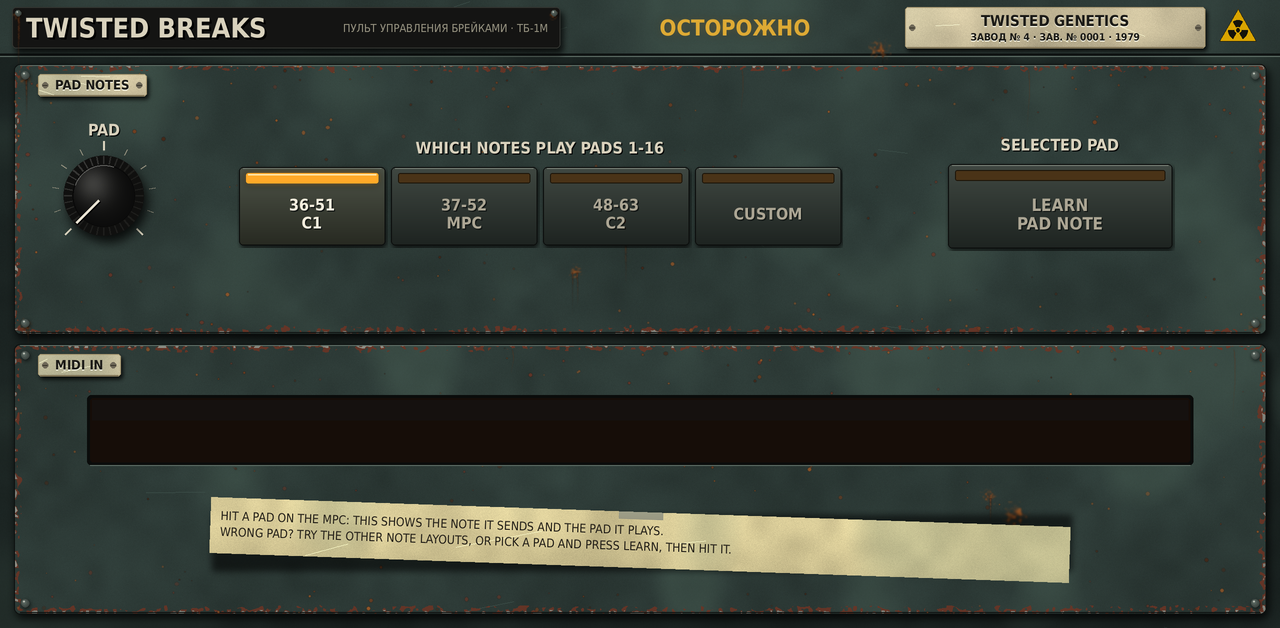
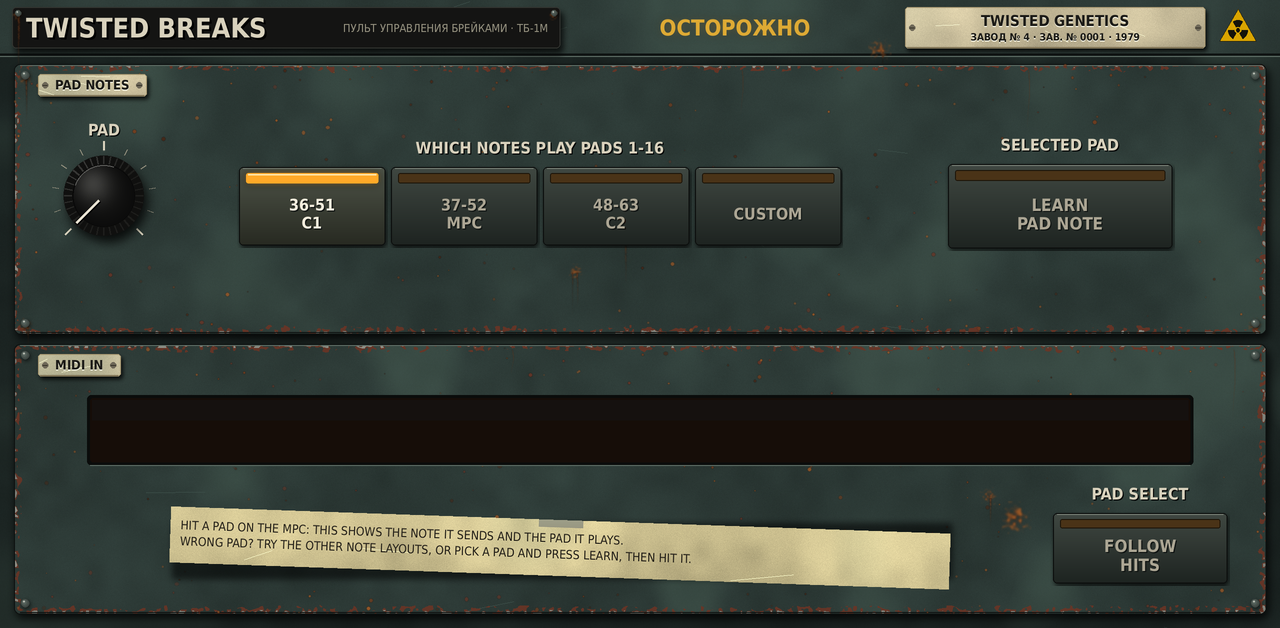
1.2: a hit selects its pad; the touched control gets an amber frame
- Hitting a pad (MIDI note-on from the MPC's pads) selects it, so every page shows the pad just played;
  FOLLOW HITS on SETUP turns it off; not while LEARN waits for a note, never from the sequencer
- vst/skin_post.py: the MPC's focus frame (the control the data wheel turns) is drawn in amber with a
  faint wash instead of the toolkit's invisible default
- sl_info is no longer polled (not on the skin since 1.1)

Claude-Session: https://claude.ai/code/session_016uiKHs1PyuvdGNn9rURMam

Changed region(s): [[0.125, 0.7564, 0.9688, 0.9379]]

diff --git a/src/MpcHost.cpp b/src/MpcHost.cpp
@@ -197,7 +197,7 @@ namespace
 
     enum class Own : uint8_t
     {
-        none, trigger, smpFile, smpSlice, smpAudition, stPos, noteBase, step, slPos, slZoom, wvTap, wave, tab
+        none, trigger, padFollow, smpFile, smpSlice, smpAudition, stPos, noteBase, step, slPos, slZoom, wvTap, wave, tab
     };
 
     struct Info
@@ -242,6 +242,7 @@ namespace
                 else if (std::strcmp (k, "sl_count") == 0)     in.kind = Kind::slCount;
                 else if (std::strcmp (k, "sl_pick") == 0)      in.kind = Kind::padParam;
                 else if (std::strcmp (k, "smp_file") == 0)     own (Own::smpFile);
+                else if (std::strcmp (k, "pad_follow") == 0)   own (Own::padFollow);
                 else if (std::strcmp (k, "smp_slice") == 0)    own (Own::smpSlice);
                 else if (std::strcmp (k, "smp_audition") == 0) own (Own::smpAudition);
                 else if (std::strcmp (k, "st_pos") == 0)       own (Own::stPos);
@@ -334,6 +335,17 @@ namespace
         {
             if (len <= 0 || len > 3) return;
             midi.addEvent (msg, len, 0);
+            // A pad hit selects that pad, so every page shows the pad just played (not while LEARN waits for a note).
+            if (len == 3 && (msg[0] & 0xf0) == 0x90 && msg[2] > 0 && padFollow.load (std::memory_order_relaxed))
+            {
+                auto& engine = proc->getEngine();
+                if (engine.getNoteLearnPad() < 0)
+                    if (const int pad = engine.padForNote (msg[1]); pad >= 0)
+                    {
+                        selectedPad.store (pad);
+                        proc->getBridge().selectedPad.store (pad);
+                    }
+            }
         }
 
         void songPos (double ppq, double tempo, int isPlaying, int)
@@ -1229,6 +1241,7 @@ namespace
             switch (in.own)
             {
                 case Own::smpFile:     return (float) cursor.load();
+                case Own::padFollow:   return padFollow.load() ? 1.0f : 0.0f;
                 case Own::smpSlice:    return smpSliceOnLoad.load() ? 1.0f : 0.0f;
                 case Own::smpAudition: return smpAudition.load() ? 1.0f : 0.0f;
                 case Own::stPos:       return (float) (proc->getBridge().seqStep.load() + 1);
@@ -1253,6 +1266,7 @@ namespace
             switch (in.own)
             {
                 case Own::smpFile:     moveCursor (juce::roundToInt (v), false); return;
+                case Own::padFollow:   padFollow.store (v > 0.5f); return;
                 case Own::smpSlice:    smpSliceOnLoad.store (v > 0.5f); return;
                 case Own::smpAudition: smpAudition.store (v > 0.5f); if (v < 0.5f) stopPreview(); return;
                 case Own::stPos:       return;
@@ -1722,7 +1736,7 @@ namespace
         int    framesSincePos = 0;
 
         std::atomic<int> selectedPad { 0 }, fxGroup { 0 }, kitIndex { 0 };
-        std::atomic<bool> rescanQueued { false };
+        std::atomic<bool> rescanQueued { false }, padFollow { true };
         int lastPad = 0, lastGroup = 0;
 
         std::array<std::atomic<int>, NPARAMS>  triggerHold {};

diff --git a/vst/skin_post.py b/vst/skin_post.py
@@ -1,0 +1,43 @@
+#!/usr/bin/env python3
+"""Run by the toolkit after it builds the skin (vst.json "skin_post"): python3 skin_post.py <skin dir>.
+
+Touching a control on the MPC focuses it (the data wheel then turns that one). The toolkit draws that focus
+invisibly; here it becomes an amber frame with a faint amber wash, so you can see which control is being
+controlled. Fails when the skin has no focus parts to change (a toolkit change moved them)."""
+import json
+import os
+import sys
+
+OUTLINE = "ffffa928"      # ARGB: the skin's amber
+WASH = "26ffa928"         # ~15% amber over the control
+THICKNESS = 3.0
+
+skin = sys.argv[1]
+tui = os.path.join(skin, "Plugin Skins", "TUI.json")
+data = json.load(open(tui))
+changed = 0
+
+
+def walk(o):
+    global changed
+    if isinstance(o, dict):
+        cd = o.get("componentData")
+        if isinstance(cd, dict) and cd.get("type") == "Focus":
+            d = cd["data"]
+            d["outlineColour"] = OUTLINE
+            d["backgroundColour"] = WASH
+            d["outlineThickness"] = THICKNESS
+            d["backgroundInset"] = 2.0
+            changed += 1
+        for v in o.values():
+            walk(v)
+    elif isinstance(o, list):
+        for v in o:
+            walk(v)
+
+
+walk(data)
+if changed == 0:
+    sys.exit("skin_post: no Focus parts found in %s" % tui)
+json.dump(data, open(tui, "w"), indent=1)
+print("skin_post: %d focus frames made visible (amber)" % changed)

diff --git a/skin/make_skin.py b/skin/make_skin.py
@@ -1018,15 +1018,16 @@ def tab_steps():
 
 
 def tab_setup():
-    t = Tab("SETUP", [("SETUP", ["pad", "note_base", "note_learn"])], 1010)
+    t = Tab("SETUP", [("SETUP", ["pad", "note_base", "note_learn", "pad_follow"])], 1010)
     t.panel(14, 64, 1252, 270, "PAD NOTES")
     t.knob("pad", 104, 196, 40, "PAD", value=False)
     t.keys("note_base", 540, 206, ["36-51\nC1", "37-52\nMPC", "48-63\nC2", "CUSTOM"], 150, 84, name="WHICH NOTES PLAY PADS 1-16")
     t.button("note_learn", 1060, 206, "LEARN\nPAD NOTE", w=230, h=90, name="SELECTED PAD")
     t.panel(14, 344, 1252, 270, "MIDI IN")
     t.readout("note_info", 640, 430, 1100, 64, tsize=30)
-    t.tag(640, 540, ["HIT A PAD ON THE MPC: THIS SHOWS THE NOTE IT SENDS AND THE PAD IT PLAYS.",
-                     "WRONG PAD? TRY THE OTHER NOTE LAYOUTS, OR PICK A PAD AND PRESS LEARN, THEN HIT IT."], 860, 56)
+    t.tag(560, 548, ["HIT A PAD ON THE MPC: THIS SHOWS THE NOTE IT SENDS AND THE PAD IT PLAYS.",
+                     "WRONG PAD? TRY THE OTHER NOTE LAYOUTS, OR PICK A PAD AND PRESS LEARN, THEN HIT IT."], 780, 56)
+    t.toggle("pad_follow", 1140, 548, "FOLLOW\nHITS", w=180, h=76, name="PAD SELECT")
     return t
 
 

diff --git a/tests/tbm_test.c b/tests/tbm_test.c
@@ -142,6 +142,17 @@ int main(void) {
     CHECK(fabsf(plain(a, "bank_active") - 2) < 0.05f, "BREAK BANK option 3 round-trips (%.2f)", plain(a, "bank_active"));
     set_plain(a, "bank_active", 0); run(a, 2);
 
+    /* 2a. hitting a pad selects it: every page follows the pad just played (unless FOLLOW HITS is off) */
+    set_plain(a, "pad", 1); run(a, 2);
+    note(a, 1, 38, 100); run(a, 20); note(a, 0, 38, 0); run(a, 20);
+    CHECK(lroundf(plain(a, "pad")) == 3, "note 38 (pad 3) selects pad 3 (%.0f)", plain(a, "pad"));
+    display(a, "pad", text);
+    CHECK(strncmp(text, "03", 2) == 0, "PAD readout follows ('%s')", text);
+    set_plain(a, "pad_follow", 0); run(a, 2);
+    note(a, 1, 36, 100); run(a, 20); note(a, 0, 36, 0); run(a, 20);
+    CHECK(lroundf(plain(a, "pad")) == 3, "FOLLOW HITS off: a hit leaves the selection (%.0f)", plain(a, "pad"));
+    set_plain(a, "pad_follow", 1); set_plain(a, "pad", 1); run(a, 2);
+
     /* 2b. the SLICE page on pad 1 (the factory jungle kit's break) */
     set_plain(a, "pad", 1); run(a, 2);
     set_plain(a, "sl_count", 1);                       /* 8 slices */

diff --git a/tools/make_params.py b/tools/make_params.py
@@ -131,7 +131,7 @@ section("Slice", [
     trig("sl_reset", "Reset Slices"),
     trig("sl_unslice", "Unslice"),
     trig("sl_spread", "Spread"),
-    readout("sl_info", "Slicer"),
+    dict(readout("sl_info", "Slicer"), poll=False),   # 1.1: no longer on the skin (the screen's lines replace it)
 ])
 
 # ---- 1.0: SAMPLES (your own breaks from the SD card) ------------------------------------------
@@ -200,6 +200,9 @@ section("Sound", [
     trig("kit_next", "Next Kit"),
     readout("kit_info", "Kit Info"),
 ])
+
+# ---- 1.2: hitting a pad selects it (every page then shows that pad) --------------------------------------
+section("Follow", [opts("pad_follow", "Pad Follows Hits", ONOFF, 1)])
 
 json.dump({"name": "Twisted Breaks", "params": params, "sections": sections}, open(OUT, "w"), indent=1)
 print("%s: %d parameters" % (os.path.relpath(OUT), len(params)))

diff --git a/README.md b/README.md
@@ -37,7 +37,7 @@ the Q-Links drive it.
 | FX | FX group A–D and its 16 performance effects |
 | MACROS | The 8 macros (Destroy, Amen Mangle, Rewind, Darken, Tape Stop, Pitch Dive, Jungle Roll, Sci-Fi), amount, group, latch |
 | MIXER | Group A–D levels and mutes |
-| SETUP | Which MIDI notes play pads 1–16 (36–51, 37–52, 48–63 or custom), LEARN a note for one pad, and a MIDI IN line showing the note you just hit and the pad it played |
+| SETUP | FOLLOW HITS (a hit selects its pad); which MIDI notes play pads 1–16 (36–51, 37–52, 48–63 or custom), LEARN a note for one pad, and a MIDI IN line showing the note you just hit and the pad it played |
 
 (The MPC shows five page tabs at a time; the `>` tab pages to the rest.)
 
@@ -51,6 +51,9 @@ the Q-Links drive it.
    the MPC appear as "MPC Kit 001", "MPC Kit 002"… and keep their samples with them.
 
 ### More
+- **The pad you hit is the pad you edit**: hitting a pad selects it, so PAD, SLICE, STEPS and SAMPLES all switch to
+  it (the sequencer playing doesn't move the selection). Turn it off with FOLLOW HITS on the SETUP page.
+- **Which control am I on?** The control you touch gets an amber frame; the data wheel then turns that one.
 - **Pads**: notes 36–51 play pads 01–16 by default (change it on SETUP); notes 60–75 play the FX group's effects.
 - **Why does pad 01 sound slowed down / pitched?** The factory kit's break is a 170 BPM loop with TEMPO SYNC on,
   so it is repitched to the MPC's tempo. Set the MPC to 170, or switch TEMPO SYNC off on the PAD page. The KIT
@@ -85,7 +88,7 @@ GitHub Actions builds everything on every push (`.github/workflows/build.yml`):
 Locally (Linux): `git submodule update --init`, then
 `cmake -B build -G Ninja && cmake --build build && build/tbm_test && build/toolkit_host_test`.
 
-## Known limits (1.1)
+## Known limits (1.2)
 - Untested on hardware: CPU load, how smoothly the MPC redraws the slice screen and the STEPS playhead, and the
   skin's readability need a device check.
 - A project remembers where each pad's sample lives (a drive, a folder): keep the card or stick in, or SAVE KIT
